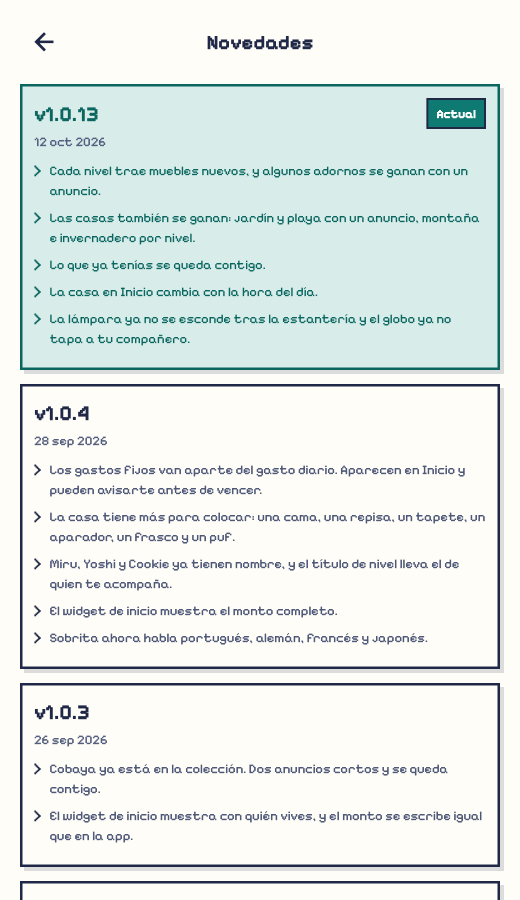
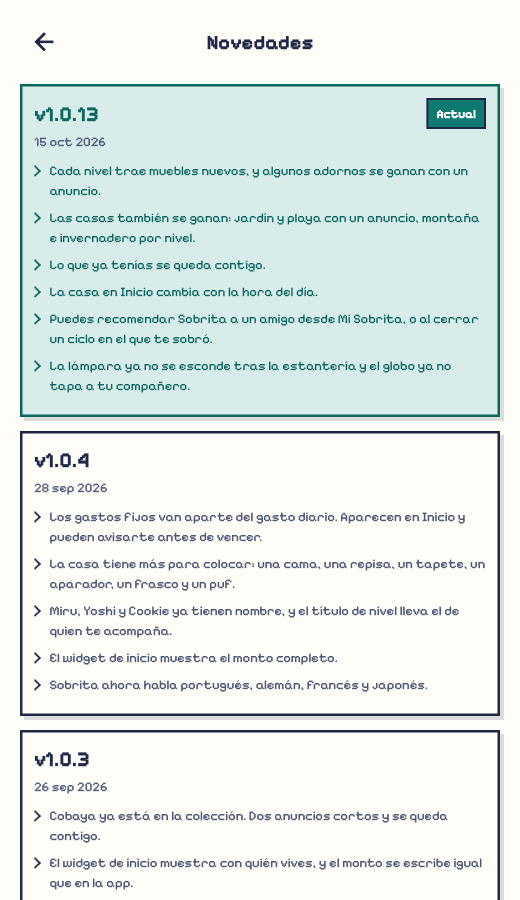
chore: rebuild 1.0.13 as build 20 with the share link in its notes
1.0.13+19 never reached Play, so the release keeps its name and takes the
work since: the share link (now a note line), the native ad gap and short
ledger slot, rewarded ad expiry, new Analytics events and the glyph fix.
German lines are trimmed so the update card still fits a 360x640 phone.

Changed region(s): [[0.0308, 0.3422, 0.9846, 0.9956]]

diff --git a/lib/data/release_notes.dart b/lib/data/release_notes.dart
@@ -38,12 +38,13 @@ class ReleaseNote {
 final releaseNotes = <ReleaseNote>[
   ReleaseNote(
     version: '1.0.13',
-    releasedOn: DateTime(2026, 10, 12),
+    releasedOn: DateTime(2026, 10, 15),
     lines: [
       (l10n) => l10n.releaseNote1013Rewards,
       (l10n) => l10n.releaseNote1013Rooms,
       (l10n) => l10n.releaseNote1013Kept,
       (l10n) => l10n.releaseNote1013Home,
+      (l10n) => l10n.releaseNote1013Share,
       (l10n) => l10n.releaseNote1013Fixes,
     ],
   ),
